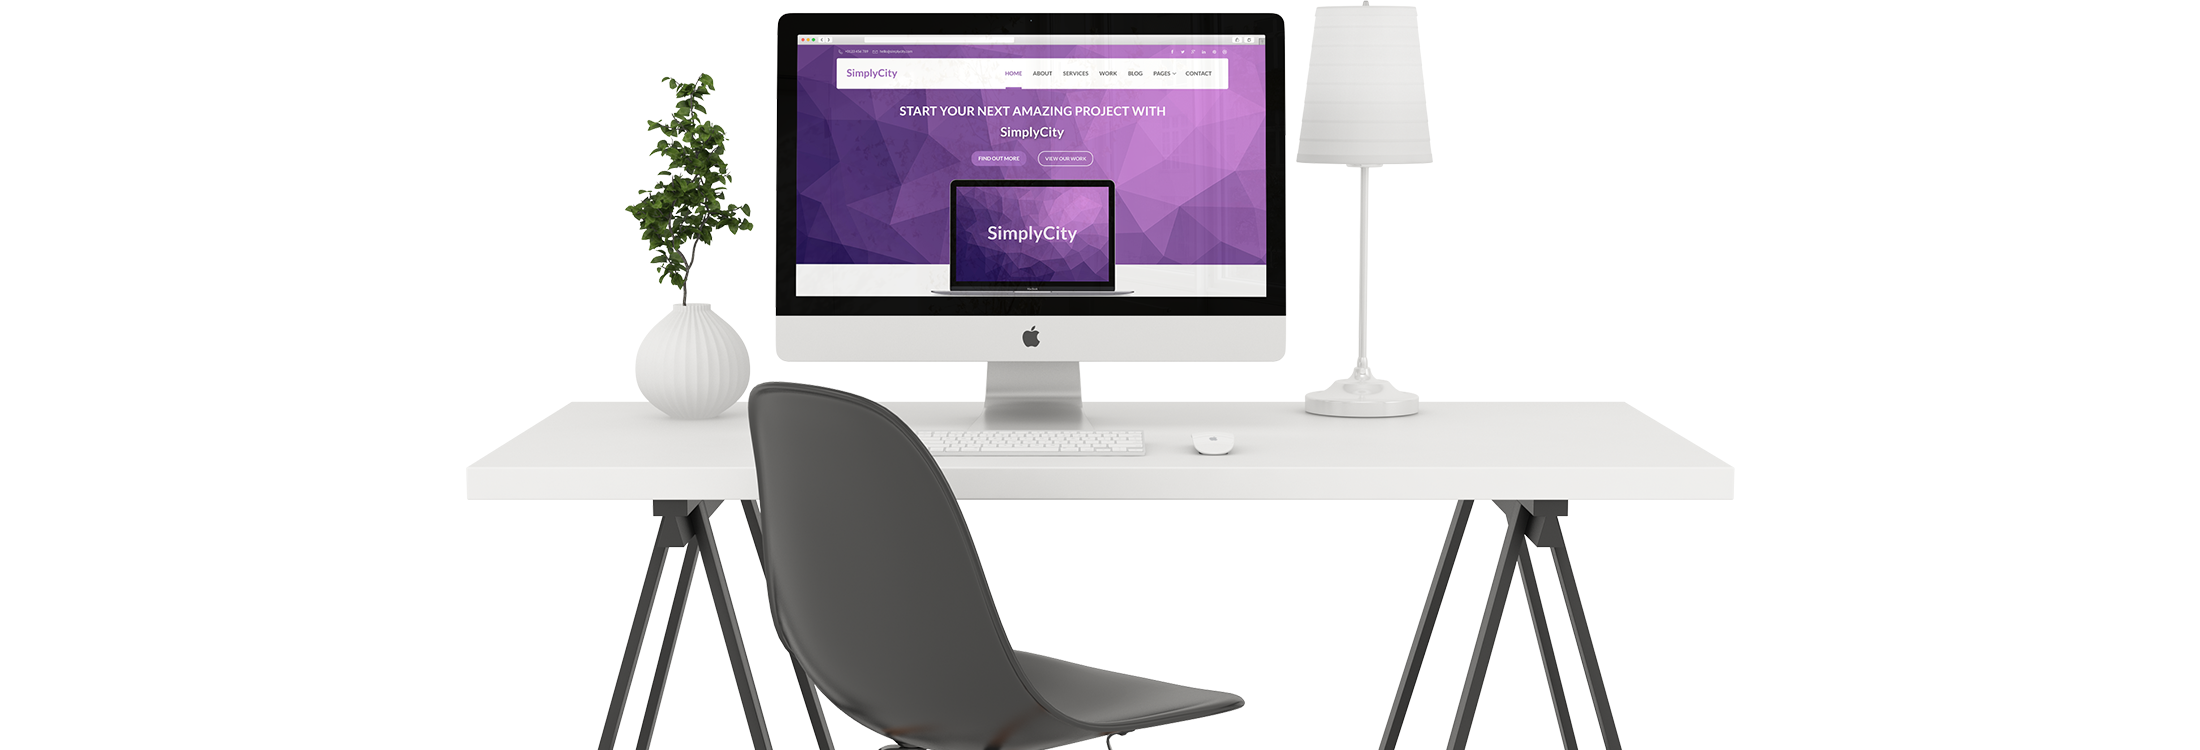
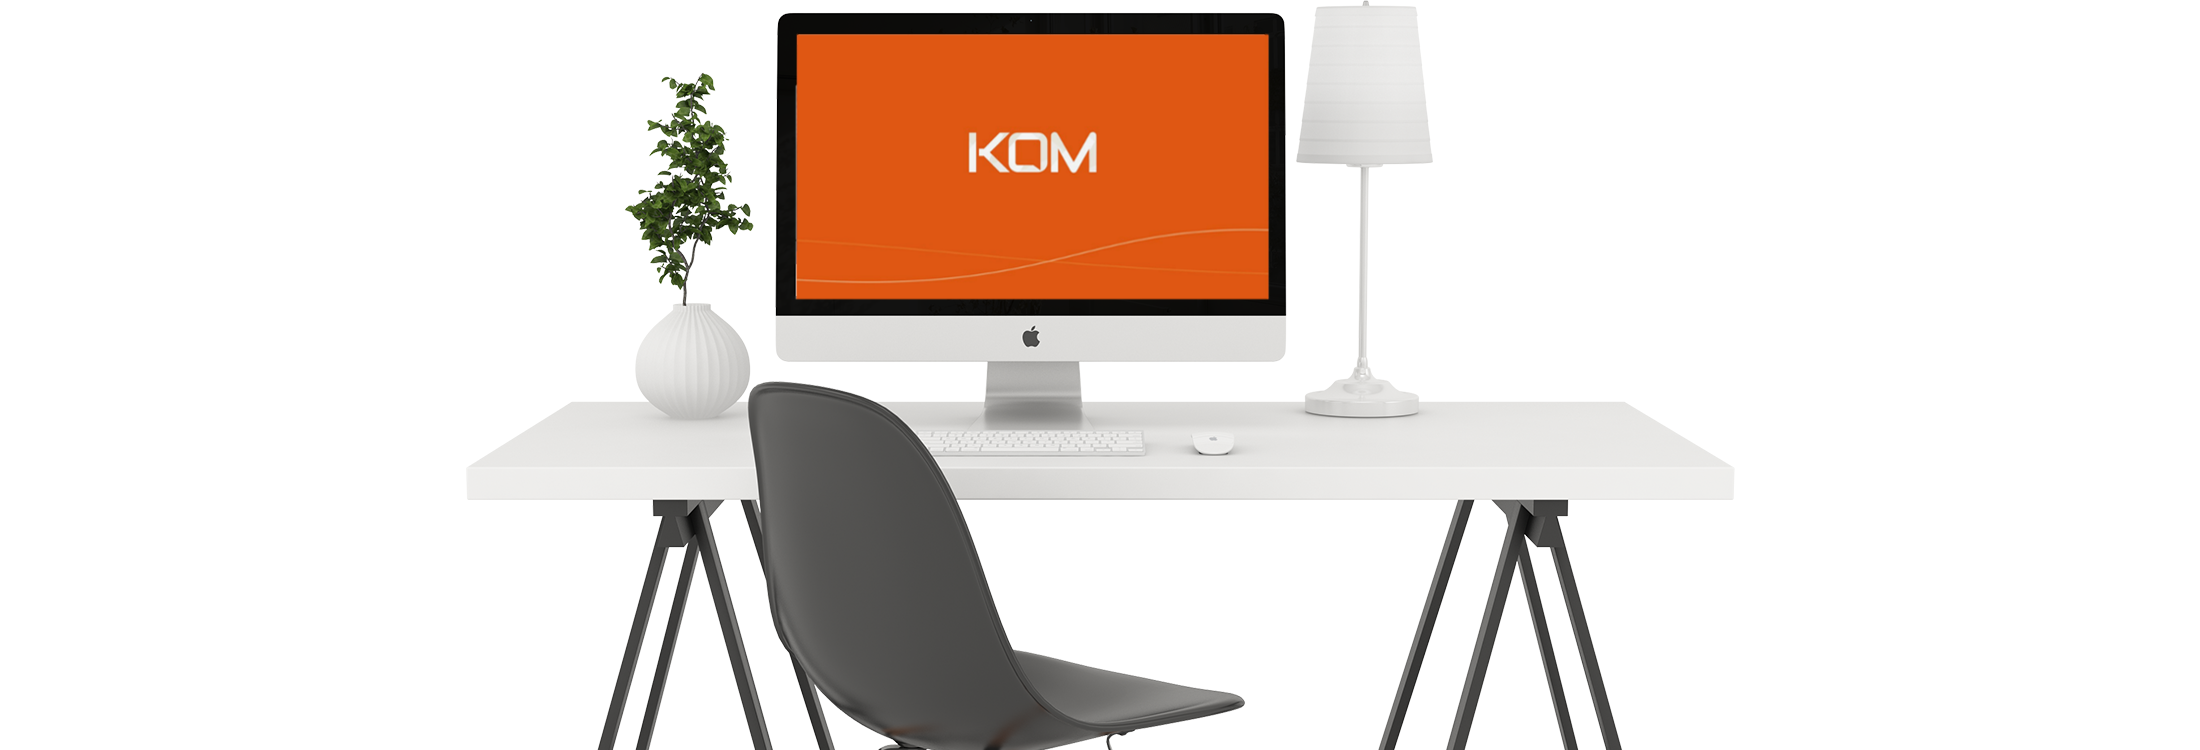
Change text about kom and edit images

Changed region(s): [[0.34, 0.0307, 0.5873, 0.3987]]

diff --git a/index.html b/index.html
@@ -81,10 +81,10 @@
         <div class="item active slide1">
           <div class="container">
             <div class="carousel-caption">
-              <h2 class="animated fadeInDown">SIMPLYCITY - LANDING PAGE 2</h2>
-              <p class="animated fadeInDown">Aenean vel egestas augue, faucibu</p>
+              <h2 class="animated fadeInDown">KOM</h2>
+              <p class="animated fadeInDown">Comunicação de qualidade, objetiva e ágil</p>
               <div class="fifth animated fadeIn">
-                <img src="images/browser.png" alt="">
+                <img src="images/desktop-image.png" alt="">
               </div>
             </div>
           </div>
@@ -99,8 +99,8 @@
               </div>
             </div>
           </div>
-        </div> -->
-        <!-- <div class="item slide3">
+        </div>
+        <div class="item slide3">
           <div class="container">
             <div class="carousel-caption">
               <h2 class="animated fadeInDown">BUILD YOUR OWN LAYOUT EASILY</h2>
@@ -113,8 +113,8 @@
         </div> -->
       </div><!-- / image slider -->
       <!-- Controls -->
-      <!-- <a class="left carousel-control" href="#image-slider" data-slide="prev"><span class="lnr lnr-chevron-left"></span></a> -->
-      <!-- <a class="right carousel-control" href="#image-slider" data-slide="next"><span class="lnr lnr-chevron-right"></span></a> -->
+      <!-- <a class="left carousel-control" href="#image-slider" data-slide="prev"><span class="lnr lnr-chevron-left"></span></a>
+      <a class="right carousel-control" href="#image-slider" data-slide="next"><span class="lnr lnr-chevron-right"></span></a> -->
     </div><!-- / home -->
   </header><!-- / header -->
 
@@ -126,36 +126,45 @@
         <h2>SOBRE</h2>
       </div>
       <div class="sub-header">
-        <h4>Kom é uma ferramenta para comunicação empresarial.</h4>
+        <h4>KOM é um aplicativo de mensagens
+            de texto, feito especialmente para
+            ajudar os empresários no dia a dia.
+        </h4>
       </div>
       <div class="row">
         <div class="about col-sm-3">
           <div class="feature-icon">
-            <i class="lnr lnr-laptop-phone"></i>
+            <i class="lnr lnr-bubble"></i>
           </div>
-          <h5 class="about-title">RESPONSIVE</h5>
-          <p>Aenean vel egestas augue, faucibus egestas tortor. Praesent tempor, urna eu imperdiet</p>
+          <h5 class="about-title">COMUNICAÇÃO DIRETA</h5>
+          <p>O grande objetivo é a comunicação
+            DIRETA, sem interferências, sem
+            conversas que atrapalhem e
+            desviem os funcionários do foco
+            principal.</p>
         </div>
         <div class="about col-sm-3">
           <div class="feature-icon">
-            <i class="lnr lnr-eye"></i>
+            <i class="lnr lnr-clock"></i>
           </div>
-          <h5 class="about-title">RETINA READY</h5>
-          <p>Aenean vel egestas augue, faucibus egestas tortor. Praesent tempor, urna eu imperdiet</p>
+          <h5 class="about-title">ECONOMIA DE TEMPO</h5>
+          <p>Com KOM, os empresários conquistam mais tempo, mais
+            economia e mais rentabilidade.</p>
         </div>
         <div class="about col-sm-3">
           <div class="feature-icon">
-            <i class="lnr lnr-code"></i>
+            <i class="lnr lnr-earth"></i>
           </div>
-          <h5 class="about-title">CLEAN CODE</h5>
-          <p>Aenean vel egestas augue, faucibus egestas tortor. Praesent tempor, urna eu imperdiet</p>
+          <h5 class="about-title">ALCANCE</h5>
+          <p>Envie mensagens para usuários em qualquer parte do mundo. Mesmo usuários sem internet
+          poderão ser notificados.</p>
         </div>
         <div class="about col-sm-3">
           <div class="feature-icon">
-            <i class="lnr lnr-pencil"></i>
+            <i class="lnr lnr-rocket"></i>
           </div>
-          <h5 class="about-title">EASY TO EDIT</h5>
-          <p>Aenean vel egestas augue, faucibus egestas tortor. Praesent tempor, urna eu imperdiet</p>
+          <h5 class="about-title">INSTANTÂNEO</h5>
+          <p>Receba as mensagens instantâneamente após o envio.</p>
         </div>
       </div>
     </div><!-- / container -->
@@ -170,36 +179,36 @@
         <h2>FUNCIONALIDADES</h2>
       </div>
       <div class="sub-header">
-        <h4>Explore the features</h4>
+        <h4>Explore as funcionalidades</h4>
       </div>
       <div class="row">
         <div class="service col-sm-6 col-md-3">
           <div class="service-icon">
-            <i class="lnr lnr-laptop-phone"></i>
-          </div>
-          <h5 class="service-title">RESPONSIVE DESIGN</h5>
-          <p>Aenean vel egestas augue, faucibus egestas tortor. Praesent tempor, urna eu imperdiet.</p>
-        </div>
-        <div class="service col-sm-6 col-md-3">
-          <div class="service-icon">
-            <i class="lnr lnr-book"></i>
-          </div>
-          <h5 class="service-title">WELL DOCUMENTED</h5>
-          <p>Aenean vel egestas augue, faucibus egestas tortor. Praesent tempor, urna eu imperdiet.</p>
-        </div>
-        <div class="service col-sm-6 col-md-3">
-          <div class="service-icon">
-            <i class="lnr lnr-eye"></i>
-          </div>
-          <h5 class="service-title">RETINA READY</h5>
-          <p>Aenean vel egestas augue, faucibus egestas tortor. Praesent tempor, urna eu imperdiet.</p>
-        </div>
-        <div class="service col-sm-6 col-md-3">
-          <div class="service-icon">
             <i class="lnr lnr-envelope"></i>
           </div>
-          <h5 class="service-title">27/7 SUPPORT</h5>
-          <p>Aenean vel egestas augue, faucibus egestas tortor. Praesent tempor, urna eu imperdiet.</p>
+          <h5 class="service-title">MULTI CANAL</h5>
+          <p>Envie mensagem, SMS e email para seus usuários.</p>
+        </div>
+        <div class="service col-sm-6 col-md-3">
+          <div class="service-icon">
+            <i class="lnr lnr-users"></i>
+          </div>
+          <h5 class="service-title">GRUPOS</h5>
+          <p>Crie grupo de usuários e gerencie as permissões que cada usuário terá no grupo.</p>
+        </div>
+        <div class="service col-sm-6 col-md-3">
+          <div class="service-icon">
+            <i class="lnr lnr-clock"></i>
+          </div>
+          <h5 class="service-title">AGENDAMENTO</h5>
+          <p>Agende mensagens para uma data específica ou recorrente.</p>
+        </div>
+        <div class="service col-sm-6 col-md-3">
+          <div class="service-icon">
+            <i class="lnr lnr-checkmark-circle"></i>
+          </div>
+          <h5 class="service-title">STATUS DE ENTREGA</h5>
+          <p>Saiba quem recebeu as mensagens que foram enviadas.</p>
         </div>
       </div>
     </div><!-- / container -->
@@ -216,24 +225,27 @@
         <div class="features-left image-left col-xs-12 col-md-5">
           <div class="feature">
             <div class="feature-icon">
-              <i class="lnr lnr-pencil"></i>
+              <i class="lnr lnr-lock"></i>
             </div>
-            <h5>RESPONSIVE DESIGN</h5>
-            <p>Aenean vel egestas augue, faucibus egestas tortor. Praesent tempor, urna eu imperdiet.</p>
+            <h5>SEGURANÇA</h5>
+            <p>Seus dados sensíveis são encriptados e trafegam por um
+              protocolo com certificado de segurança.</p>
           </div>
           <div class="feature">
             <div class="feature-icon">
-              <i class="lnr lnr-database"></i>
+              <i class="lnr lnr-cloud"></i>
             </div>
-            <h5>CROSS BROWSER SUPPORT</h5>
-            <p>Aenean vel egestas augue, faucibus egestas tortor. Praesent tempor, urna eu imperdiet.</p>
+            <h5>ARMAZENAMENTO NA NUVEM</h5>
+            <p>Seus dados são armazenados na nuvem, disponíveis 24/7 e com cópias de
+              segurança feitas diariamente.</p>
           </div>
           <div class="feature last-feature">
             <div class="feature-icon">
-              <i class="lnr lnr-cog"></i>
+              <i class="lnr lnr-laptop-phone"></i>
+              <!-- lnr lnr-laptop-phone -->
             </div>
-            <h5>EASY TO SETUP</h5>
-            <p>Aenean vel egestas augue, faucibus egestas tortor. Praesent tempor, urna eu imperdiet.</p>
+            <h5>MULTI PLATAFORMA</h5>
+            <p>Disponível para Windows, Mac OS, Linux, Tablets e Smarth Phone com Android e IOS (Iphone).</p>
           </div>
         </div>
       </div>
@@ -396,9 +408,9 @@
     <div class="container">
       <div class="row parallax-section-content-image-left">
         <div class="text-right col-md-6">
-          <h2 class="parallax-section-title">PARALLAX SECTION - IMAGE LEFT</h2>
-          <h3 class="parallax-section-text">Aenean vel egestas augue, faucibus egestas tortor. Praesent tempor, urna eu imperdiet</h3>
-          <a href="#" class="btn btn-success">DOWNLOAD</a>
+          <h2 class="parallax-section-title">KOM APP</h2>
+          <h3 class="parallax-section-text">Instale agora o aplicativo Kom e esteja conectado com sua empresa em qualquer lugar.</h3>
+          <a href="#" class="btn btn-success">INSTALAR</a>
         </div>
         <div class="image-left col-md-6">
           <img src="images/image-left.png" alt="">
@@ -411,28 +423,28 @@
   <div id="footer-widgets" class="no-line" data-section="footer-widgets">
     <div class="container">
       <div class="row">
-        <div class="first-footer-widget col-sm-12 col-md-4">
+        <!-- <div class="first-footer-widget col-sm-12 col-md-4">
           <img src="images/logo.png" alt="">
           <p>Phasellus pretium interdum dolor vel consequat. Suspendisse porta imperdiet lacus. Morbi pulvinar auctor ipsum eget vehicula. Porttitor at finibus eget, gravida vitae ipsum.</p>
           <p>Curabitur molestie augue et lobortis efficitur. Duis eget finibus nibh.</p>
-        </div>
+        </div> -->
         <div class="second-footer-widget col-sm-12 col-md-4">
           <div class="widget-title">
             <h3>CONTATO</h3>
           </div>
           <div class="footer-contact-info">
             <div class="info">
-              <p><i class="lnr lnr-map-marker"></i><span>Rua Tapajós, 152, Pato Branco - Paraná.</span></p>
+              <p><i class="lnr lnr-map-marker"></i><span>Rua Tapajós, 152, Edifício Monte Carlo, Sala 704, Pato Branco - Paraná.</span></p>
             </div>
             <div class="info">
               <a href="tel:+0123456789"><i class="lnr lnr-phone-handset"></i><span>(46) 3225-5719</span></a>
             </div>
             <div class="info">
-              <a href="mailto:hello@simplycity.com"><i class="lnr lnr-envelope"></i><span>hello@simplycity.com</span></a>
+              <a href="mailto:contato@komunicador.com.br"><i class="lnr lnr-envelope"></i><span>contato@komunicador.com.br</span></a>
             </div>
           </div>
         </div>
-        <div class="second-footer-widget col-sm-12 col-md-4">
+        <!-- <div class="second-footer-widget col-sm-12 col-md-4">
           <div class="widget-title">
             <h3>SOCIAL</h3>
           </div>
@@ -445,7 +457,7 @@
             <a href="#"><i class="fa fa-pinterest"></i></a>
             <a href="#"><i class="fa fa-dribbble"></i></a>
           </div>
-        </div>
+        </div> -->
       </div>
     </div><!-- / container -->
   </div><!-- / footer widgets 3col -->
